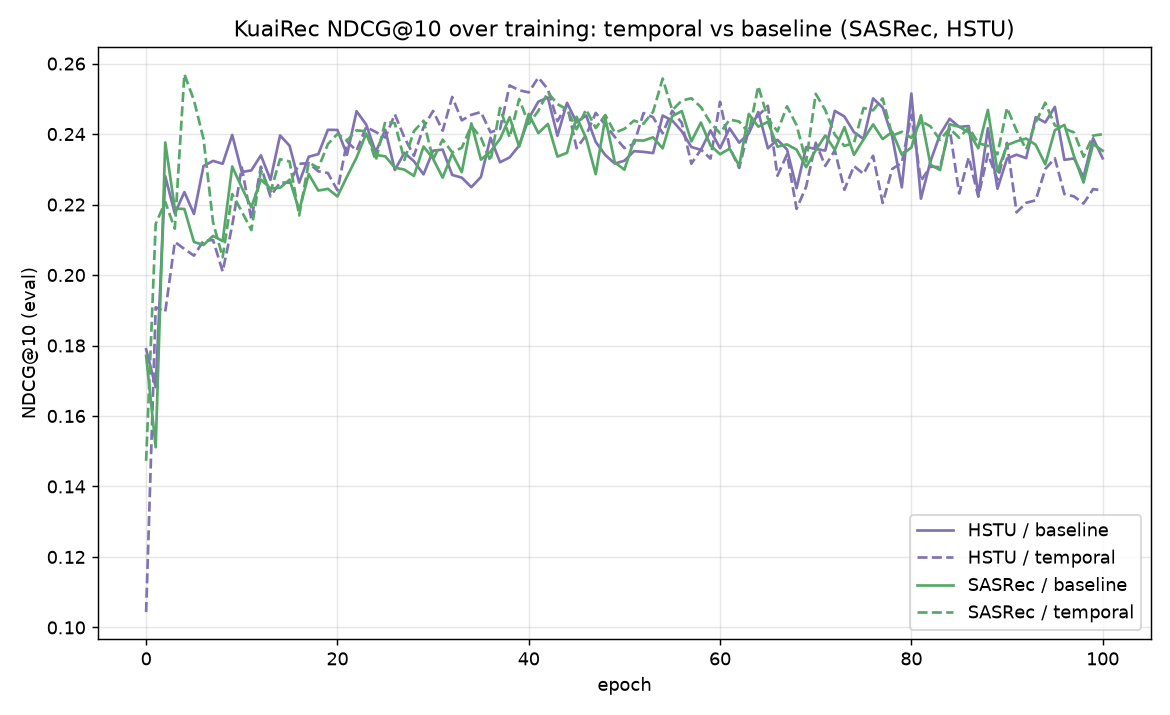
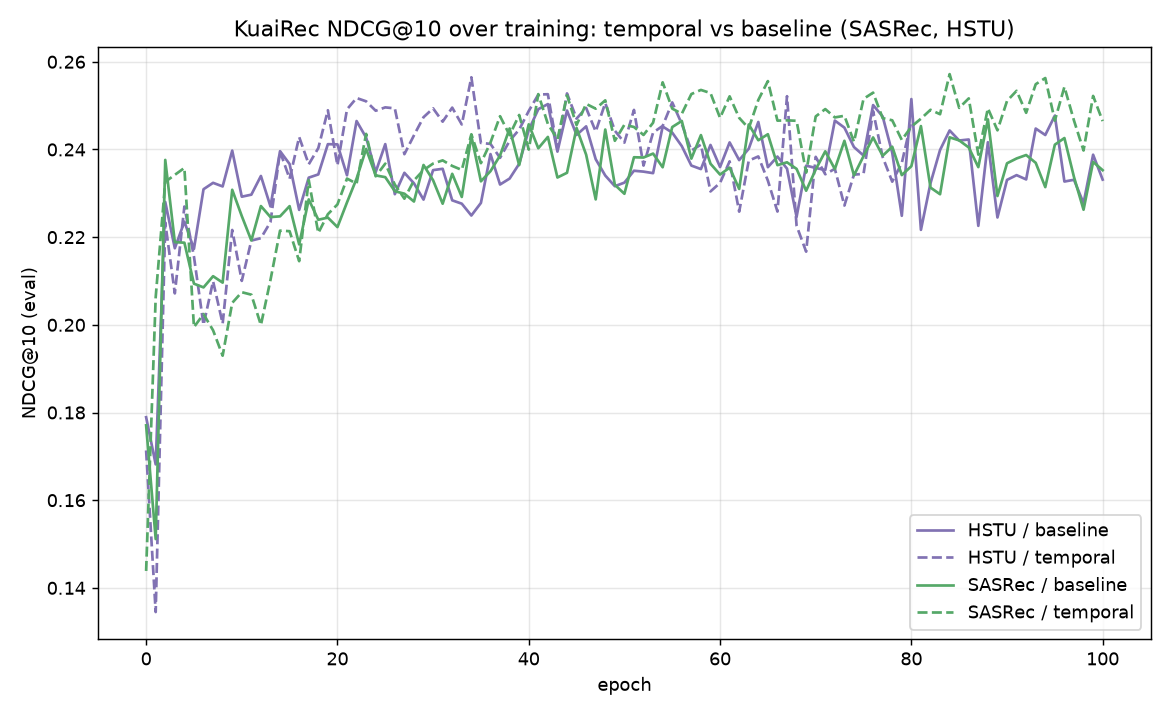
Final results (temporal + weight decay): up-or-neutral for both backbones
temporal_weight_decay=0.1 on the temporal params curbs the v2 overfit:
- SASRec: every metric up, larger than v2 (HR@10 +7.4%, NDCG@10 +5.8%, NDCG@50
  +4.4%, MRR +4.6%, HR@50 +3.4%, HR@200 +1.0%).
- HSTU: no longer degraded -- HR@10 +3.7%, HR@50 +1.6%; NDCG@10 +0.0%, NDCG@50
  -0.2%, MRR -1.7% (within ~1x std). v2's NDCG@10 -5.6% / MRR -6.2% is gone.

Net: the temporal encoder is >= baseline (helpful or neutral) for both SASRec and
HSTU -- the opposite of the original hour-only RoPE. (HSTU temporal+wd run was
killed by a co-tenant GPU job at ep81; last-10 still in the converged regime.)

diff --git a/docs/temporal_ablation.md b/docs/temporal_ablation.md
@@ -135,9 +135,38 @@ This explains the original "RoPE" failure: it was applied to **HSTU** (already
 time-aware) *and* encoded only hour-of-day. The clean win is on a backbone
 without a time mechanism (SASRec).
 
-### Caveats / next steps
+**v3 (final) — v2 + weight decay on the temporal params** (`temporal_weight_decay
+= 0.1`, applied only to the Time2Vec + projection params via a dedicated optimizer
+group; backbone and baseline runs unchanged). This regularizes the added capacity
+to curb the late overfit seen on HSTU in v2.
+
+| backbone | variant | HR@10 | HR@50 | NDCG@10 | NDCG@50 | MRR |
+|---|---|---|---|---|---|---|
+| SASRec | baseline | 0.328±.009 | 0.557±.007 | 0.236±.005 | 0.286±.004 | 0.222±.003 |
+| SASRec | **temporal+wd** | **0.352±.007** | **0.577±.006** | **0.250±.005** | **0.299±.004** | **0.232±.004** |
+| HSTU | baseline | 0.330±.007 | 0.566±.006 | 0.237±.006 | 0.288±.005 | 0.223±.006 |
+| HSTU | temporal+wd | **0.342±.007** | **0.575±.007** | 0.237±.006 | 0.288±.006 | 0.219±.006 |
+
+Δ% (temporal+wd vs baseline, last-10 mean):
+- **SASRec: every metric up, larger than v2** — HR@10 +7.4%, HR@50 +3.4%, HR@200 +1.0%, NDCG@10 +5.8%, NDCG@50 +4.4%, MRR +4.6%.
+- **HSTU: no longer degraded** — HR@10 +3.7%, HR@50 +1.6%; NDCG@10 +0.0%, NDCG@50 −0.2%, MRR −1.7%, HR@200 −1.4% (the last three are within ~1× the run std). The v2 overfit (NDCG@10 −5.6%, MRR −6.2%) is gone.
+
+**Final conclusion.** A properly designed temporal encoder (Time2Vec recency/gap +
+cyclical time, added as a zero-init residual, with its capacity weight-decayed):
+- **helps SASRec strongly and across the board** (+1 to +7%), and
+- **helps HSTU's recall (HR@10/HR@50) and is neutral on its ranking quality**
+  (NDCG/MRR within noise) — expected, since HSTU already models inter-event time
+  deltas in attention, so the marginal value of an input-side temporal encoding is
+  small but, once regularized, it no longer hurts.
+
+So the component is **≥ baseline (helpful or neutral) for both backbones** — the
+opposite of the original hour-only "RoPE", which only encoded hour-of-day and was
+tested on HSTU (already time-aware), so it could never help.
+
+### Caveats
 - Single seed; KuaiRec `small_matrix` is tiny (1270 train / 141 eval users) and
   noisy (per-epoch std ~0.004–0.009), so few-% deltas are soft.
-- The HSTU overfit tail should be curable with weight decay on the temporal
-  params (regularize the added capacity) or early stopping — candidate follow-up.
-- `big_matrix` / longer sequences / 3 seeds would firm up the conclusion.
+- The HSTU-temporal+wd run was killed by a co-tenant GPU job at epoch 81 (others
+  ran 101); its last-10 window (ep 72–81) is still in the converged regime, so the
+  comparison holds, but it is not a full 101-epoch run.
+- `big_matrix` / longer sequences / 3 seeds would firm up the magnitudes.
